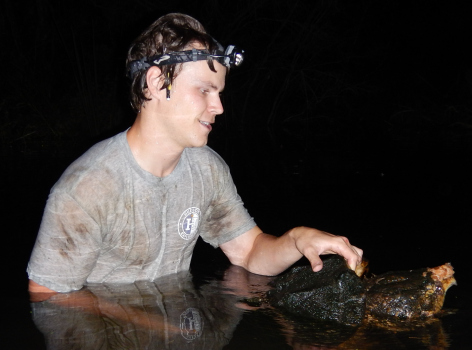
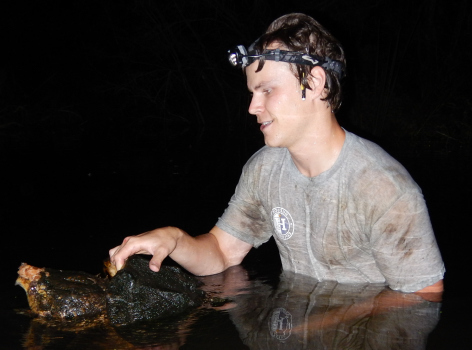
Updating publications and picture on research page

diff --git a/publications.html b/publications.html
@@ -322,12 +322,13 @@ mentored.</p>
 <p><img src="images/horses_cropped.jpg" style="width:20%; border:1px solid; margin-left: 15px" align="right"></p>
 <div id="section" class="section level3">
 <h3><u>2022</u></h3>
-<p>[24] <strong>B Folt</strong>, K Schoenecker, LS Ekernas. 2022
+<p>[24] <strong>B Folt</strong>, K Schoenecker, LS Ekernas. 2022.
 Multi-objective modeling as a decision-support tool for feral horse
-management. <em>Human-Wildlife Interactions</em>. In press.</p>
+management. <em>Human-Wildlife Interactions</em>, in press. <a
+href="https://doi.org/10.5066/P9HRF1H9">Software</a></p>
 <p>[23] <strong>B Folt</strong>, M Marshall, JA Emmanuel, M Dziadzio, J
 Cooke, L Mena, M Hinderlichter, S Hoffman, N Rankin, J Tupy, CP McGowan
-(2022). Using predictions from multiple anthropogenic stressors to
+2022. Using predictions from multiple anthropogenic stressors to
 estimate future population conditions of an imperiled species.
 <em>Global Ecology and Conservation</em> 36: e02143. <a
 href="files/folt-et-al-2022-tortoise-pva.pdf">PDF</a> <a
@@ -337,23 +338,23 @@ href="https://doi.org/10.1016/j.gecco.2022.e02143">DOI</a></p>
 <h3><u>2021</u></h3>
 <p><img src="images/WL110573.JPG" style="width:20%; border:1px solid; margin-left: 15px" align="right"></p>
 <p>[22] AJ Lawson, <strong>B Folt</strong>, AM Tucker, F Erickson, CP
-McGowan (2021). Decision context as a necessary component of population
+McGowan. 2021. Decision context as a necessary component of population
 viability analysis appraisal. <em>Conservation Biology</em> 35(5):
 1683–1685. <a href="files/lawson-et-al-2021-conbio.pdf">PDF</a> <a
 href="https://doi.org/10.1111/cobi.13818">DOI</a></p>
-<p>[21] <strong>B Folt</strong>, C Guyer (2021). Habitat-dependent
+<p>[21] <strong>B Folt</strong>, C Guyer. 2021. Habitat-dependent
 effects of predators on prey frogs in a Neotropical wet forest.
 <em>Journal of Tropical Ecology</em> 37(5): 214-221. <a
 href="files/folt-and-guyer-2021-spiders.pdf">PDF</a> <a
 href="https://doi.org/10.1017/S0266467421000274">DOI</a></p>
 <p><img src="images/jwm-cover.jpg" style="width:20%; border:1px solid; margin-left: 15px" align="right"></p>
-<p>[20] T Mitchell, <strong>B Folt</strong>, J Hall (2021). Dumpsters
-and other anthropogenic structures as habitat for invasive African rock
+<p>[20] T Mitchell, <strong>B Folt</strong>, J Hall. 2021. Dumpsters and
+other anthropogenic structures as habitat for invasive African rock
 agama lizards in Florida. <em>Biological Invasions</em> 23: 2689–2693.
 <a href="files/mitchell-et-al-2021-agamas.pdf">PDF</a> <a
 href="https://doi.org/10.1007/s10530-021-02537-0">DOI</a></p>
 <p>[19] <strong>B Folt</strong>, J Goessling, AM Tucker, C Guyer, S
-Hermann, E Shelton-Nix, CP McGowan (2021). Contrasting patterns of
+Hermann, E Shelton-Nix, CP McGowan. 2021. Contrasting patterns of
 demography and population viability among gopher tortoise populations in
 Alabama. <em>Journal of Wildlife Management</em> 85(4): 617–630. <a
 href="files/folt-et-al-2021-jwm.pdf">PDF</a> <a
@@ -361,20 +362,20 @@ href="https://doi.org/10.1002/jwmg.21996">DOI</a></p>
 </div>
 <div id="section-2" class="section level3">
 <h3><u>2020</u></h3>
-<p>[18] <strong>B Folt</strong> (2020). Population demography of
+<p>[18] <strong>B Folt</strong>. 2020. Population demography of
 <em>Rhinoclemmys funerea</em> (Black River Turtle) at a protected forest
 reserve in Costa Rica. <em>Herpetological Conservation and Biology</em>
 15(3):611–619. <a href="files/folt-2020-rhinoclemmys.pdf">PDF</a> <a
 href="https://www.herpconbio.org">DOI</a></p>
 <p>[17] R Etzel^, M Cornish^, MS Kifer^, L Nuñez, G Valladao^, <strong>B
-Folt</strong> (2020). Subterranean advertisement and duet calling
+Folt</strong>. 2020. Subterranean advertisement and duet calling
 behavior in <em>Ptychohyla legleri</em> (Legler’s Stream Frog).
 <em>Alytes</em> 37(3–4): 57–61. <a
 href="files/etzel-et-al-2020-ptychohyla.pdf">PDF</a> <a
 href="https://figshare.com/articles/Calling_Behavior_of_Ptychohyla_legleri_Legler_s_Stream_Frog_/11797191">Data</a></p>
 <p><img src="images/indigo.jpg" style="width:20%; border:1px solid; margin-left: 15px" align="right"></p>
 <p>[16] <strong>B Folt</strong>, CP McGowan, DA Steen, S Piccolomini, M
-Hoffman, J Godwin, C Guyer (2020). Modeling strategies and evaluating
+Hoffman, J Godwin, C Guyer. 2020. Modeling strategies and evaluating
 success during repatriations of elusive and endangered species.
 <em>Animal Conservation</em> 23: 273–285. <a
 href="files/folt-et-al-2019-animal-conservation.pdf">PDF</a> <a
@@ -384,20 +385,20 @@ href="https://github.com/brianf0lt/indigo-repatriation-model">Code</a></p>
 <div id="section-3" class="section level3">
 <h3><u>2019</u></h3>
 <p>[15] C Guyer, <strong>B Folt</strong>, M Hoffman, J Bauder, D
-Stevenson, S Goetz, M Miller, J Godwin (2019). Patterns of head shape
-and scutellation in <em>Drymarchon couperi</em> (Squamata: Colubridae)
+Stevenson, S Goetz, M Miller, J Godwin. 2019. Patterns of head shape and
+scutellation in <em>Drymarchon couperi</em> (Squamata: Colubridae)
 reveal a single morphological species. <em>Zootaxa</em> 4695(2):
 168–174. <a href="files/guyer-et-al-2019-zootaxa.pdf">PDF</a> <a
 href="http://dx.doi.org/10.11646/zootaxa.4695.2.6">DOI</a></p>
 <p>[14] C Guyer, S Goetz, <strong>B Folt</strong>, K Joyce^ &amp; M
-Hayes (2019). Variation in head shape and color of slimy salamanders
+Hayes. 2019. Variation in head shape and color of slimy salamanders
 (<em>Plethodon glutinosus</em> complex) across the Gulf Coastal Plain,
 USA. <em>Copeia</em> 107(4): 694–700. <a
 href="files/guyer-et-al-2019-copeia.pdf">PDF</a> <a
 href="https://doi.org/10.1643/CH-18-169">DOI</a></p>
 <p><img src="images/indigo-release.jpg" style="width:20%; border:1px solid; margin-left: 15px" align="right"></p>
 <p>[13] <strong>B Folt</strong>, J Bauder, S Spear, D Stevenson, M
-Hoffman, J Oaks, PL Wood Jr, C Jenkins, D Steen, C Guyer (2019).
+Hoffman, J Oaks, PL Wood Jr, C Jenkins, D Steen, C Guyer. 2019.
 Taxonomic and conservation implications of population genetic admixture,
 mito-nuclear discordance, and male-biased dispersal of a large
 endangered snake, <em>Drymarchon couperi</em>. <em>PLoS ONE</em> 14(3):
@@ -410,7 +411,7 @@ href="https://figshare.com/articles/Taxonomic_and_conservation_implications_of_p
 <a
 href="https://www.tallahassee.com/story/opinion/2019/03/31/indigo-snake-releases-guided-strong-science-conservation-ethic/3313120002/">Op-ed
 in the <em>Tallahassee Democrat</em></a></p>
-<p>[12] R Hopkins^, <strong>B Folt</strong> (2019). Screaming calls of
+<p>[12] R Hopkins^, <strong>B Folt</strong>. 2019. Screaming calls of
 <em>Leptodactylus savagei</em> (Smoky Jungle Frog) function as an alarm
 for conspecifics. <em>Journal of Herpetology</em> 53(2): 154–157. <a
 href="files/hopkins-folt-2019.pdf">PDF</a> <a
@@ -420,13 +421,13 @@ href="https://figshare.com/articles/Screaming_calls_of_Leptodactylus_savagei_Smo
 </div>
 <div id="section-4" class="section level3">
 <h3><u>2018</u></h3>
-<p>[11] N Rivera^, <strong>B Folt</strong> (2018). Community assembly of
+<p>[11] N Rivera^, <strong>B Folt</strong>. 2018. Community assembly of
 glass frogs (Centrolenidae) in a Neotropical wet forest: a test of the
 river zonation hypothesis. <em>Journal of Tropical Ecology</em> 34:
 108–120. <a href="files/rivera-folt-2018-glassfrogs.pdf">PDF</a> <a
 href="http://dx.doi.org/10.1017/S0266467418000068">DOI</a></p>
 <p><img src="images/oophaga-pumilio.jpg" style="width:20%; border:1px solid; margin-left: 15px" align="right">
-[10] <strong>B Folt</strong>, MA Donnelly, C Guyer (2018). Spatial
+[10] <strong>B Folt</strong>, MA Donnelly, C Guyer. 2018. Spatial
 patterns of <em>Oophaga pumilio</em> in a homogeneous plantation system
 are consistent with conspecific attraction. <em>Ecology and
 Evolution</em> 8: 2880–2889. <a
@@ -437,13 +438,13 @@ href="http://onlinelibrary.wiley.com/doi/10.1002/ece3.3748/full">DOI</a></p>
 <div id="section-5" class="section level3">
 <h3><u>2017</u></h3>
 <p><img src="images/spider-lizard.jpg" style="width:20%; border:1px solid; margin-left: 15px" align="right">
-[9] <strong>B Folt</strong>, W Lapinski (2017). New observations of frog
+[9] <strong>B Folt</strong>, W Lapinski. 2017. New observations of frog
 and lizard predation by wandering and orb-weaver spiders in Costa Rica.
 <em>Phyllomedusa</em> 16: 269–277. <a
 href="files/folt-lapinski-2017.pdf">PDF</a> <a
 href="http://dx.doi.org/10.11606/issn.2316-9079.v16i2p269-277">DOI</a></p>
 <p>[8] JR Roberts, KM Halanych, CR Arias, <strong>B Folt</strong>, JM
-Goessling, SA Bullard (2017). Emendation and new species of
+Goessling, SA Bullard. 2017. Emendation and new species of
 <em>Hapalorhynchus</em> Stunkard, 1922 (Digenea: Schistosomatoidea) from
 musk turtles (Kinosternidae: <em>Sternotherus</em>) in Alabama and
 Florida rivers. <em>Parasitology International</em> 66: 748–760. <a
@@ -454,28 +455,28 @@ href="http://www.sciencedirect.com/science/article/pii/S1383576917302222">DOI</a
 </div>
 <div id="section-6" class="section level3">
 <h3><u>2016</u></h3>
-<p>[7] <strong>B Folt</strong>, JB Jensen, A Teare, D Rostal (2016).
+<p>[7] <strong>B Folt</strong>, JB Jensen, A Teare, D Rostal. 2016.
 Establishing reference demography for conservation: A case study of
 <em>Macrochelys temminckii</em> in Spring Creek, Georgia.
 <em>Herpetological Monographs</em> 30: 21–33. <a
 href="files/folt-et-al-2016-macrochelys.pdf">PDF</a> <a
 href="http://dx.doi.org/10.1655/HerpMonographs-D-15-00004">DOI</a></p>
 <p>[6] <strong>B Folt</strong>, N Garrison, C Guyer, J Rodriguez, JE
-Bond (2016). Phylogeography and evolution of the Red Salamander
+Bond. 2016. Phylogeography and evolution of the Red Salamander
 (<em>Pseudotriton ruber</em>). <em>Molecular Phylogenetics and
 Evolution</em> 98: 97–110. <a
 href="files/folt-et-al-2016-mpe.pdf">PDF</a> <a
 href="http://dx.doi.org/10.1016/j.ympev.2016.01.016">DOI</a>
 <img src="images/pseudotriton1.jpg" style="width:20%; border:1px solid; margin-left: 15px" align="right"></p>
 <p>[5] JR Ennen, J Godwin, JE Lovich, BR Kreiser, <strong>B
-Folt</strong>, S Hazzard (2016). Interdrainage morphological and genetic
+Folt</strong>, S Hazzard. 2016. Interdrainage morphological and genetic
 differences in the Escambia Map Turtle, <em>Graptemys ernsti</em>.
 <em>Herpetological Conservation and Biology</em> 11(1): 122–131. <a
 href="http://www.herpconbio.org/Volume_11/Issue_1/Ennen_etal_2016.pdf">PDF/DOI</a></p>
 </div>
 <div id="section-7" class="section level3">
 <h3><u>2015</u></h3>
-<p>[4] <strong>B Folt</strong>, C Guyer (2015). Evaluating recent
+<p>[4] <strong>B Folt</strong>, C Guyer. 2015. Evaluating recent
 taxonomic changes for alligator snapping turtles (Testudines:
 Chelydridae). <em>Zootaxa</em> 3947(3): 447–450. <a
 href="files/folt-guyer-2015.pdf">PDF</a> <a
@@ -485,7 +486,7 @@ href="http://dx.doi.org/10.11646/zootaxa.3947.3.11">DOI</a>
 <div id="section-8" class="section level3">
 <h3><u>2014</u></h3>
 <p>[3] JC Godwin, JE Lovich, JR Ennen, B Kreiser, <strong>B
-Folt</strong>, C Lechowicz (2014). Hybridization of two megacephalic map
+Folt</strong>, C Lechowicz. 2014. Hybridization of two megacephalic map
 turtles (Testudines: Emydidae: <em>Graptemys</em>) in the Choctawhatchee
 River drainage of Alabama and Florida. <em>Copeia</em> 2014(4): 725–742.
 <a href="files/godwin-et-al-2014-graptemys.pdf">PDF</a> <a
@@ -494,13 +495,13 @@ href="http://dx.doi.org/10.1643/CH-13-132">DOI</a></p>
 <div id="section-9" class="section level3">
 <h3><u>2013</u></h3>
 <p><img src="images/ccb-cover.jpg" style="width:15%; border:1px solid; margin-left: 15px" align="right">
-[2] <strong>B Folt</strong>, JC Godwin (2013). Status of the Alligator
+[2] <strong>B Folt</strong>, JC Godwin. 2013. Status of the Alligator
 Snapping Turtle (<em>Macrochelys temminckii</em>) in south Alabama with
 comments on its distribution. <em>Chelonian Conservation and
 Biology</em> 12(2): 211–217. <a
 href="files/folt-godwin-2013-macrochelys.pdf">PDF</a> <a
 href="http://dx.doi.org/10.2744/CCB-1036.1">DOI</a></p>
-<p>[1] <strong>B Folt</strong>, KE Reider (2013). Leaf-litter
+<p>[1] <strong>B Folt</strong>, KE Reider. 2013. Leaf-litter
 herpetofaunal richness, abundance, and community assembly in
 mono-dominant plantations and primary forest of northeastern Costa Rica.
 <em>Biodiversity and Conservation</em> 22(9): 2057–2070. <a
@@ -510,11 +511,11 @@ href="http://dx.doi.org/10.1007/s10531-013-0526-0">DOI</a></p>
 </div>
 <div id="book-chapters" class="section level3">
 <h3><u>Book chapters</u></h3>
-<p><strong>B Folt</strong> (2021). Eastern Fence Lizard <em>Sceloporus
+<p><strong>B Folt</strong>. 2021. Eastern Fence Lizard <em>Sceloporus
 undulatus</em>. Pp. 335–344 in JG Davis, GJ Lipps Jr, D Wynn, BK
 Armitage, TO Matson, RA Pfingsten, C Caldwell (eds). Reptiles of Ohio.
 Ohio Biological Survey Bulletin New Series 20(1), 1112 pg.</p>
-<p><strong>B Folt</strong>, JG Davis (2013). Blanchard’s Cricket Frog
+<p><strong>B Folt</strong>, JG Davis. 2013. Blanchard’s Cricket Frog
 <em>Acris blanchardi</em> (Harper 1947). In: R Pfingsten, JG Davis, TO
 Matson, G Lipps Jr., D Wynn, BJ Armitage (eds) <em>Amphibians of
 Ohio</em>. Ohio Biological Survey Bulletin New Series 17(1).</p>
@@ -522,49 +523,49 @@ Ohio</em>. Ohio Biological Survey Bulletin New Series 17(1).</p>
 </div>
 <div id="natural-history-papers" class="section level3">
 <h3><u>Natural history papers</u></h3>
-<p>C Sanspree, CM Murray, <strong>B Folt</strong> (2016).
-<em>Macrochelys temminckii</em> (Alligator Snapping Turtle): predation.
+<p>C Sanspree, CM Murray, <strong>B Folt</strong>. 2016. <em>Macrochelys
+temminckii</em> (Alligator Snapping Turtle): predation.
 <em>Herpetological Review</em> 47(1): 124–5. <a
 href="files/sanspree-et-al-2016-macrochelys-predation.pdf">PDF</a></p>
 <p><strong>B Folt</strong>, D Laurencio, JM Goessling, RD Birkhead, J
-Stiles, S Stiles, S Belford, AT Harris (2015). One hundred two new
-county records for amphibians and reptiles in Alabama.
-<em>Herpetological Review</em> 46(4): 591–594. <a
+Stiles, S Stiles, S Belford, AT Harris. 2015. One hundred two new county
+records for amphibians and reptiles in Alabama. <em>Herpetological
+Review</em> 46(4): 591–594. <a
 href="files/folt-et-al-2015-102-al-records.pdf">PDF</a></p>
-<p>C Ganong, <strong>B Folt</strong> (2015). <em>Pristimantis
+<p>C Ganong, <strong>B Folt</strong>. 2015. <em>Pristimantis
 cerasinus</em> (Clay-colored Rain Frog): mortality. <em>Herpetological
 Review</em> 46(3): 416.</p>
 <p>TW Pierson^, T Stratmann, EC White, AG Clause, C Carter, MW Herr, AJ
-Jenkins, H Vogel, M Knoerr, <strong>B Folt</strong> (2014). New county
+Jenkins, H Vogel, M Knoerr, <strong>B Folt</strong>. 2014. New county
 records of amphibians and reptiles resulting from a bioblitz competition
 in north-central Georgia, USA. <em>Herpetological Review</em> 45(2):
 296–297. <a href="files/pierson-et-al-2014-ga-bioblitz.pdf">PDF</a></p>
-<p>SC Sterrett, JB Jensen, <strong>B Folt</strong> (2014). <em>Graptemys
+<p>SC Sterrett, JB Jensen, <strong>B Folt</strong>. 2014. <em>Graptemys
 barbouri</em> (Barbour’s Map Turtle): basking height. <em>Herpetological
 Review</em> 45(2): 314–31</p>
 <p><strong>B Folt</strong>, T Pierson^, SM Goetz, J Goessling, D
-Laurencio, D Thompson^, SP Graham (2013). Amphibians and reptiles of
+Laurencio, D Thompson^, SP Graham. 2013. Amphibians and reptiles of
 Jasper County, Mississippi with comments on the potentially extinct Bay
 Springs Salamander (<em>Plethodon ainsworthi</em>). <em>Herpetological
 Review</em> 44(2): 283–286. <a
 href="files/folt-et-al-2013-ms-bioblitz.pdf">PDF</a></p>
-<p><strong>B Folt</strong>, D Laurencio (2013). <em>Agkistrodon
+<p><strong>B Folt</strong>, D Laurencio. 2013. <em>Agkistrodon
 contortrix</em> (Copperhead): diet. <em>Herpetological Review</em>
 44(3): 517.</p>
-<p><strong>B Folt</strong>, JR Folt, CR Brune (2012). New county records
+<p><strong>B Folt</strong>, JR Folt, CR Brune. 2012. New county records
 for Ohio amphibians and reptiles. <em>Herpetological Review</em> 43(4):
 624–625.</p>
-<p><strong>B Folt</strong> (2012). <em>Lithobates heckscheri</em> (River
+<p><strong>B Folt</strong>. 2012. <em>Lithobates heckscheri</em> (River
 Frog): geographic distribution. <em>Herpetological Review</em> 43(1):
 99.</p>
 </div>
 <div id="outreach-publications" class="section level3">
 <h3><u>Outreach publications</u></h3>
-<p><strong>B Folt</strong> (2019). Op-ed: “Indigo Snake Releases are
+<p><strong>B Folt</strong>. 2019. Op-ed: “Indigo Snake Releases are
 Guided by Strong Science and Conservation Ethic.” <em>The Tallahassee
 Democrat</em>. <a
 href="https://www.tallahassee.com/story/opinion/2019/03/31/indigo-snake-releases-guided-strong-science-conservation-ethic/3313120002/">Link</a></p>
-<p><strong>B Folt</strong> (2014). Alligator Snapping Turtles: Ecology
+<p><strong>B Folt</strong>. 2014. Alligator Snapping Turtles: Ecology
 and Mythology in Alabama. <em>Alabama Wildlife Magazine</em>, July 2014.
 44 pp. Article featured with cover photograph.</p>
 </div>

diff --git a/research.html b/research.html
@@ -313,7 +313,7 @@ h3 { /* Header 3 */ font-size: 18px; color: Black;}
 code.r{ /* Code block */ font-size: 12px;}
 pre { /* Code block - determines code spacing between lines */ font-size: 14px;}
 </style>
-<p><img src="images/gather-pic-2.png" style="width:40%; border:2px solid; margin-left: 15px" align="right"></p>
+<p><img src="images/gator-snapper.jpg" style="width:40%; border:2px solid; margin-left: 15px" align="right"></p>
 <p>I study animal populations from fundamental and applied perspectives.
 I conduct fundamental research that develops and tests hypotheses about
 how populations function, and then I work to understand how populations
